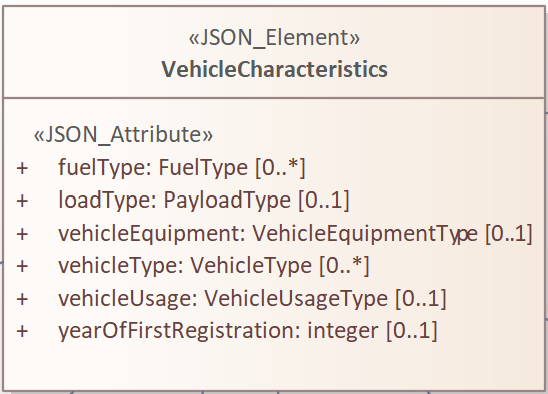
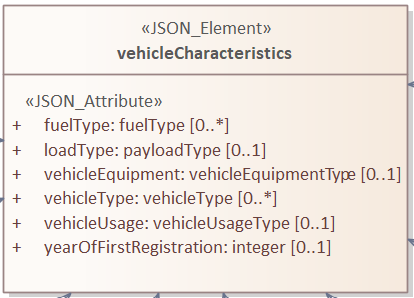
Hotfix for schema v3.5.0

diff --git a/dft-theme/src/dft_theme/layout.html b/dft-theme/src/dft_theme/layout.html
@@ -98,6 +98,7 @@
           <a id="cookies-link" href="{{base_path}}cookies">Cookies</a>
           <a id="privacy-link" href="{{base_path}}privacy">Privacy</a>
           <a id="t-and-c-link" href="{{base_path}}terms_and_conditions">Terms & Conditions</a>
+          <a id="engagement-link" href="{{base_path}}engagement">Engagement</a>
         </div>
         <div class="footer-meta-group">
           <svg aria-hidden="true" focusable="false" class="govuk-footer__licence-logo"

diff --git a/data-model-user-guide/source/conf.py b/data-model-user-guide/source/conf.py
@@ -36,6 +36,8 @@ html_sidebars = {
     ]
 }
 
+pygments_style = "sphinx"
+
 import os
 import re
 

diff --git a/data-model-user-guide/source/a_tour_of_the_data_model.rst b/data-model-user-guide/source/a_tour_of_the_data_model.rst
@@ -241,7 +241,7 @@ The ``experimentalVariation`` defines two mandatory attributes.
 
 This object supports the structured representation of temporary modifications within a D-TRO and allows for clear communication of their intended scope and timeline.
 
-:numref:`fig12` provides the UML class representation of the ``experimentaCessation`` object.
+:numref:`fig12` provides the UML class representation of the ``experimentalCessation`` object.
 
 .. _fig12:
 
@@ -1190,8 +1190,11 @@ Summarizing the use of time concepts in D-TRO
 
 *Coming into force date* - The coming into force date shall be defined at the TRO level in the ``source`` object. If the coming into force date for any of the included provisions is different to that of the TRO as a whole, the coming into force date for the specific provision shall be supplied using the ``comingIntoForceDate`` attribute in the ``provision`` object. If omitted at the provision level the coming into force date is taken to be the same as the TRO source coming into force date.
 
-*Activation times* - Dates and times within the ``timeValidity`` model represent the dates and times that the related regulation and provision are activated (operationally active time). The ``timeValidity`` sub-model supports a wide range of different time patterns for the applicability and activation of each provision.
-In cases where the coming into force date represents when the provision is activated, the details of the first date/time given in the ``timeValidity`` model shall mirror the coming into force date.
+*Time limited TROs* - For TROs that are time-limited such as TTROs, experimental TROs and Special Events, the overall legal duration shall be given by populating the ``start`` and ``end`` properties of the ``timeValidity`` object for every provision, unless the order specifies provisions legally starting and ending at different times - in which case the ``start`` and ``end`` properties should represent the dates and times laid out in the order.
+
+*Activation times* - Dates and times within the ``timeValidity`` model represent the dates and times that the related regulation and provision are activated (operationally active time). This is foreseen times as planned, and should be altered or added to as plans evolve - these are distinct from recording actual times of on road occupancy, which are recorded using the ``actualStartOrStop`` object. The ``timeValidity`` sub-model supports a wide range of different time patterns for the applicability and activation of each provision. In cases where the coming into force date represents when the provision is activated, the details of the first date/time given in the ``timeValidity`` model shall mirror the coming into force date.
+
+For example, a TTRO may be specified to be valid from 1-Jan-2024. Actual foreseen activation is much shorter, being 3 days between 1-Apr-2024 and 3-Apr-2024. The ``comingIntoForceDate`` would be given as 2024-01-01; any and all instances of provisions under the TTRO would give the ``timeValidity`` ``start`` as 2024-01-01T00:00:00 and ``end`` as 2025-06-30T23:59:59 (unless our times have been specified). The planned foreseen activition dates would be defined by a ``validPeriod`` with ``startOfPeriod`` 2024-04-01T00:00:00 and ``endOfPeriod`` 2024-04-03T23:59:59.
 
 For periodic maintenance style TROs (which create windows of opportunity to activate the TRO on sections of the network within a defined overall period), the times and dates given in the ``timeValidity`` sub-model represent when the TRO and its provisions are foreseen to be activated.
 
@@ -1237,16 +1240,20 @@ A ``conditionSet`` object may be specified using a sequence of conditions with l
 
 .. code-block:: xml
 
-    <conditionSet operator="OR">
-        <conditionSet operator="AND">
+   <conditionSet operator="OR">
+      <conditionSet operator="AND">
+         <conditions>
             <timeValidity />
-            <vehicleCharacteristics />
-        </conditionSet>
-        <conditionSet operator="AND">
-            <timeValidity />
-            <vehicleCharacteristics />
-        </conditionSet>
-    </conditionSet>
+               <vehicleCharacteristics />
+         </conditions>
+      </conditionSet>
+         <conditionSet operator="AND">
+            <conditions>
+               <timeValidity />
+               <vehicleCharacteristics />
+            </conditions>
+      </conditionSet>
+   </conditionSet>
 
 Or, the same example in an alternate notation:
 
@@ -1448,7 +1455,7 @@ The ``accessCondition`` object has two attributes:
 
 The permitCondition object has the following attributes:
 
-* The mandatory ``type`` attribute indicates the type of the referenced permit. Permissible values include ``doctor``, ``business``, ``resident`` and ``other``. Note that the permissible values list is under review and may modify in future releases of the Data Model
+* The mandatory ``type`` attribute indicates the type of the referenced permit. Permissible values include ``doctor``, ``business``, ``resident``, ``residentPlusBadgeHolders``, ``residentNotBlueBadgeHolders`` and ``other``. Note that the permissible values list is under review and may modify in future releases of the Data Model
 * The optional ``schemeIdentifier`` attribute supports a free text name for the permit scheme referenced
 * The optional ``permitIdentifier`` attribute supports multiple instances for an identifier for the permit scheme referenced (e.g., resident parking zone A)
 * The optional ``whereToApplyForPermit`` attribute provides a web address (URL) of the competent authority where an application for a permit can be requested
@@ -1598,7 +1605,7 @@ Attributes similar to ``typeOfWeight`` are not replicated in the other objects l
 
 .. _vehicleCharacteristics:
 
-.. figure:: /_static/images/vehicleCharacteristics.png
+.. figure:: /_static/images/vehicleCharacteristics-object.png
    :alt: UML model representation of the vehicleCharacteristics object
    :width: 45%
    :align: center

diff --git a/data-model-user-guide/source/releases.rst b/data-model-user-guide/source/releases.rst
@@ -1,0 +1,112 @@
+Releases
+========
+
+This section provides details of releases that include changes to the data model.
+
+10th November 2025
+^^^^^^^^^^^^^^^^^^
+
+Release ``d0c834dfa6fcf64d29b8a84bcc6466c3``
+
+On 10th November 2025, we released a minor bugfix to address the following issues with the v3.5.0 data model and schema.
+
+* removed ``conditions`` as a property of ``regulation``, and from the ``regulation.oneOf`` constraint
+
+.. code-block:: diff
+
+    --- a/schemas-3.5.0.json
+    +++ b/schemas-3.5.0.json
+    @@ -2121,13 +2121,6 @@
+         "$ref": "#/$defs/condition"
+       }
+     },
+    -    "conditions": {
+    -        "type": "array",
+    -        "minItems": 1,
+    -        "items": {
+    -            "$ref": "#/$defs/condition"
+    -        }
+    -    },
+       "generalRegulation": {
+         "$ref": "#/$defs/generalRegulation"
+       },
+
+    @@ -2184,11 +2177,6 @@
+       "condition"
+       ]
+    },
+    -    {
+    -        "required": [
+    -            "conditions"
+    -        ]
+    -    },
+    {
+       "required": [
+             "conditionSet"
+
+* updated ``conditions.minItems`` from 1 to 2
+
+.. code-block:: diff
+
+    --- a/examples/Schemas/schemas-3.5.0.json
+    +++ b/examples/Schemas/schemas-3.5.0.json
+    @@ -427,7 +427,7 @@
+       },
+       "conditions": {
+           "type": "array",
+    -      "minItems": 1,
+    +      "minItems": 2,
+           "items": {
+               "type": "object",
+               "oneOf": [
+
+* added ``publicRightOfWayClosure`` to ``regulationType`` enum
+
+.. code-block:: diff
+
+    --- a/schemas-3.5.0.json
+    +++ b/schemas-3.5.0.json
+    @@ -2274,7 +2262,8 @@
+         "movementOrderProhibitedAccess",
+         "nonOrderKerbsideBusStop",
+         "nonOrderKerbsidePedestrianCrossing",
+    -    "nonOrderMovementBoxJunction"
+    +    "nonOrderMovementBoxJunction",
+    +    "publicRightOfWayClosure"
+       ],
+       "type": "string"
+     },
+
+* changed spelling of  ``cubicCentimeters`` to ``cubicCentimetres`` in ``unitOfMeasureEnum``
+
+.. code-block:: diff
+
+    --- a/schemas-3.5.0.json
+    +++ b/schemas-3.5.0.json
+    @@ -2593,7 +2582,7 @@
+     "unitOfMeasureEnum": {
+         "description": "Defines the unit used for the measure.",
+         "enum": [
+    -        "cubicCentimeters",
+    +        "cubicCentimetres",
+             "year",
+             "gkm",
+             "kWh",
+
+* added ``publicHolidayName`` object to ``specialDayType`` object
+
+.. code-block:: diff
+
+    --- a/schemas-3.5.0.json
+    +++ b/schemas-3.5.0.json
+    @@ -2948,6 +2937,10 @@
+         },
+         "specialDayType": {
+             "$ref": "#/$defs/specialDayType"
+    +    },
+    +    "publicHolidayName": {
+    +        "type": "string",
+    +        "minLength": 1
+         }
+       }
+     },

diff --git a/dft-theme/src/dft_theme/pages/engagement.rst b/dft-theme/src/dft_theme/pages/engagement.rst
@@ -1,0 +1,34 @@
+Engagement
+==========
+
+There are several ways to get involved with the D-TRO service.
+
+D-TRO Website
+^^^^^^^^^^^^^
+
+Specific information on the D-TRO service can found on the `D-TRO website <https://d-tro.dft.gov.uk>`_.
+
+GOV.UK Website
+^^^^^^^^^^^^^^
+
+An overview of the D-TRO service can be found on the `GOV.UK website <https://www.gov.uk/guidance/digital-traffic-regulation-orders-d-tro-service>`_.
+
+D-TRO YouTube Playlist
+^^^^^^^^^^^^^^^^^^^^^^
+
+The `D-TRO YouTube playlist <https://www.youtube.com/playlist?list=PLrrl9-rugNRqB3UtD-BtLoBgs4EPJJEqZ>`_ provides information on the D-TRO service and technical guidance on using the D-TRO API.
+
+Transport Technology Forum Website
+^^^^^^^^^^^^^^^^^^^^^^^^^^^^^^^^^^^^^^^^
+
+Information on the D-TRO service can be found at the `Transport Technology Forum website <https://ttf.uk.net/digital-traffic-regulation-orders-d-tro/>`_.
+
+GitHub
+^^^^^^
+
+For information on D-TRO API development and issue tracking, visit the `D-TRO GitHub repository <https://github.com/department-for-transport-public/D-TRO>`_.
+
+Mailing List & Further Support
+^^^^^^^^^^^^^^^^^^^^^^^^^^^^^^
+
+To sign up to the D-TRO mailing list, or for further support related to the D-TRO service, please contact d-tro@dft.gov.uk.

diff --git a/data-model-user-guide/source/index.rst b/data-model-user-guide/source/index.rst
@@ -10,9 +10,10 @@ D-TRO Data Model Documentation
    
    v3.5.0
 
-Welcome to the D-TRO Data Model Interactive User Guide. You can use the links below and search controls to navigate through the guide.
+Welcome to the D-TRO Data Model Interactive User Guide. You can use the sidebar links and search controls to navigate through the guide.
 
 This document is also connected to the Data Model UML diagram, which you can open from the :ref:`a-tour-of-the-data-model` section.
+
 
 Contents
 ^^^^^^^^
@@ -28,3 +29,4 @@ Contents
    the_data_model_uml_class_diagrams
    change_log
    document_control
+   releases

diff --git a/portal-access/source/index.rst b/portal-access/source/index.rst
@@ -27,6 +27,13 @@ Technical Documentation and Guidance
 * `Data Model User Guide <data-model-user-guide>`_
 * `User Portal Guide <user-portal-documentation>`_
 
+Get Involved
+^^^^^^^^^^^^
+
+There are several ways you can get involved with the D-TRO service. The following link provides an overview of the engagement channels.
+
+`Get involved with the D-TRO service <https://d-tro.dft.gov.uk/engagement>`_
+
 Support
 ^^^^^^^
 

diff --git a/api-documentation/source/shared/engagement.rst b/api-documentation/source/shared/engagement.rst
@@ -1,0 +1,10 @@
+Engagement
+==========
+
+There are several ways to get involved with the D-TRO service.
+
+GOV.UK Website
+^^^^^^^^^^^^^^
+
+Guidance on the D-TRO service can be found on the GOV.UK website at https://www.gov.uk/guidance/digital-traffic-regulation-orders-d-tro-service.
+
